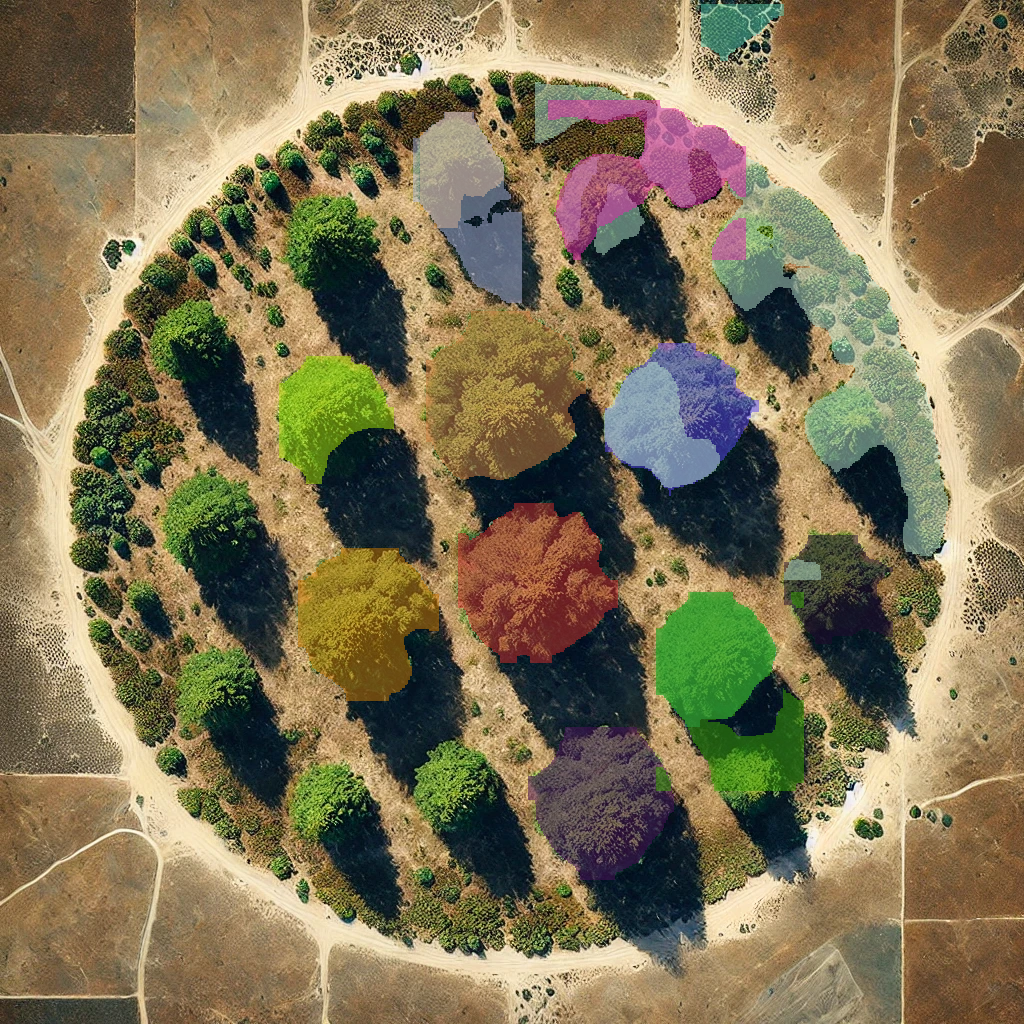
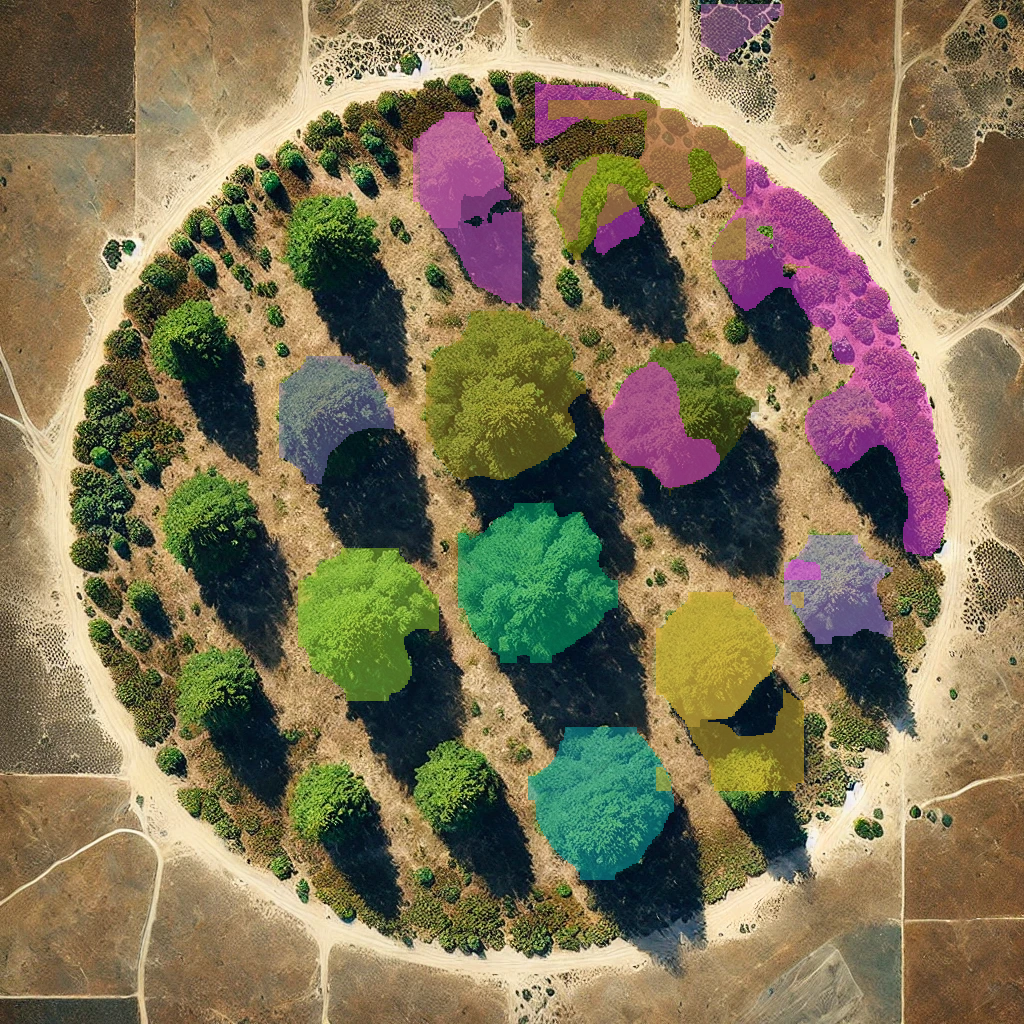
feat:integração

Changed region(s): [[0.25, 0.0625, 0.9375, 0.6875], [0.5, 0.5625, 0.8125, 0.875], [0.6875, 0.0, 0.7812, 0.0625]]

diff --git a/src/frontend/carbon-check/src/pages/Dash-Board/index.tsx b/src/frontend/carbon-check/src/pages/Dash-Board/index.tsx
@@ -1,24 +1,35 @@
 import React, { useState } from "react";
 import UploadImage from "./components/imageupload/imageupload";
 import CompareImagesButton from "./components/compareimg/compareimg";
-import AnalizeImage from "./components/analizeimage/analiseimage";
 import MetricsButton from "./components/MetricsButton/MetricsButton";
 import Heather from "../components/heather/heather";
 import TextGraph from "./components/text_graph/text_graph";
 import VelocimeterGraph from "./components/speed_graph/speed_graph";
 
-
 const DashBoard: React.FC = () => {
   const [selectedImage, setSelectedImage] = useState<File | null>(null);
   const [isModalOpen, setIsModalOpen] = useState(false);
+  const [backendImage, setBackendImage] = useState<string | null>(null); // Estado para armazenar a imagem do backend
 
   const handleImageUpload = (image: File) => {
     setSelectedImage(image);
   };
 
-  const handleAnalyzeImage = () => {
+  const handleAnalyzeImage = async () => {
     if (selectedImage) {
-      setIsModalOpen(true);
+      try {
+        const response = await fetch("http://127.0.0.1:8000/processed-image"); // Insira a URL do backend aqui
+        if (response.ok) {
+          const blob = await response.blob();
+          const imageUrl = URL.createObjectURL(blob);
+          setBackendImage(imageUrl); // Armazena a imagem do backend no estado
+          setIsModalOpen(true); // Abre o modal após carregar a imagem
+        } else {
+          console.error("Erro ao buscar a imagem:", response.statusText);
+        }
+      } catch (error) {
+        console.error("Erro ao fazer a requisição:", error);
+      }
     } else {
       alert("Por favor, insira uma imagem antes de analisar.");
     }
@@ -60,12 +71,12 @@ const DashBoard: React.FC = () => {
         </div>
 
         {/* Modal de Ampliar Imagem */}
-        {isModalOpen && selectedImage && (
+        {isModalOpen && backendImage && (
           <div className="fixed inset-0 bg-black bg-opacity-75 flex items-center justify-center z-50">
             <div className="bg-white p-4 rounded-lg max-w-lg w-full">
               <h2 className="text-lg font-bold mb-4">Análise de Imagem</h2>
               <img
-                src={URL.createObjectURL(selectedImage)}
+                src={backendImage}
                 alt="Imagem para análise"
                 className="w-full h-auto object-contain"
               />

diff --git a/src/frontend/carbon-check/src/pages/Dash-Board/components/imageupload/imageupload.tsx b/src/frontend/carbon-check/src/pages/Dash-Board/components/imageupload/imageupload.tsx
@@ -5,9 +5,30 @@ interface UploadImageProps {
 }
 
 const UploadImage: React.FC<UploadImageProps> = ({ onImageUpload }) => {
-  const handleImageChange = (e: ChangeEvent<HTMLInputElement>) => {
+  const handleImageChange = async (e: ChangeEvent<HTMLInputElement>) => {
     if (e.target.files && e.target.files.length > 0) {
-      onImageUpload(e.target.files[0]); // Obtém o primeiro arquivo selecionado
+      const imageFile = e.target.files[0];
+      onImageUpload(imageFile); // Obtém o primeiro arquivo selecionado
+
+      // Criar um FormData para enviar a imagem
+      const formData = new FormData();
+      formData.append("file", imageFile);
+
+      try {
+        const response = await fetch("http://127.0.0.1:8000/segment", {
+          method: "POST",
+          body: formData,
+        });
+
+        if (response.ok) {
+          const data = await response.json();
+          console.log("Imagem enviada com sucesso:", data);
+        } else {
+          console.error("Erro ao enviar a imagem:", response.statusText);
+        }
+      } catch (error) {
+        console.error("Erro ao fazer a requisição:", error);
+      }
     }
   };
 
